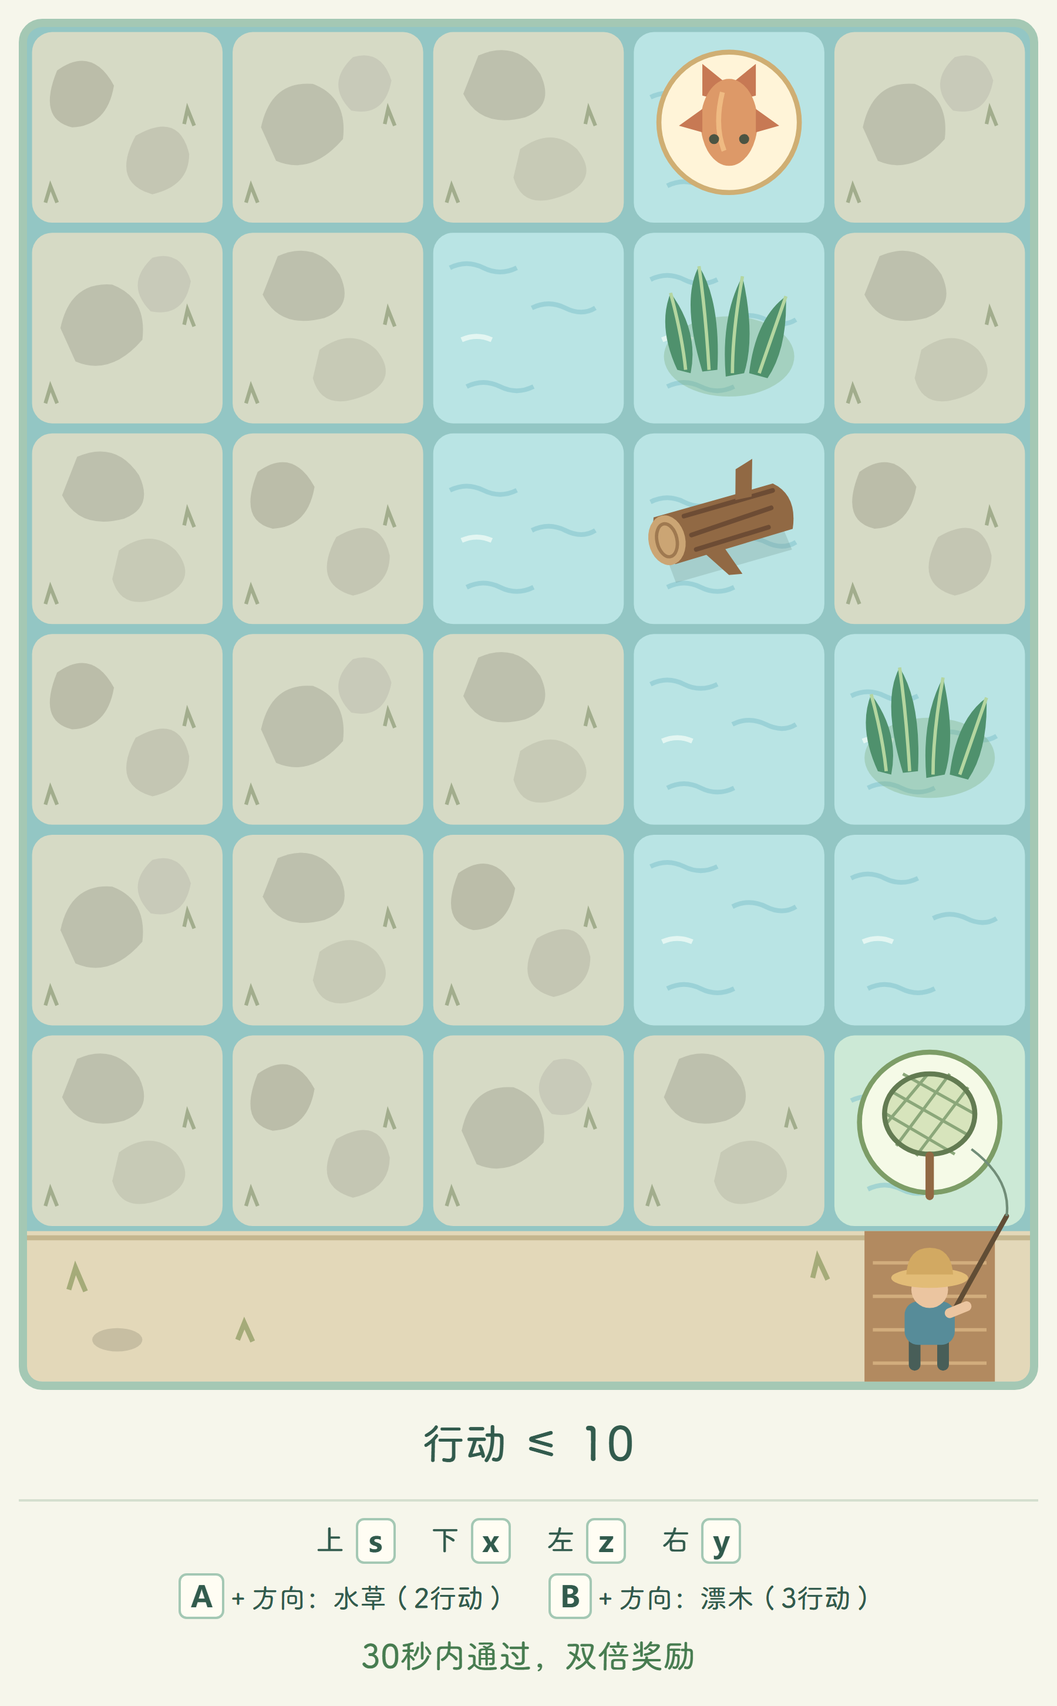
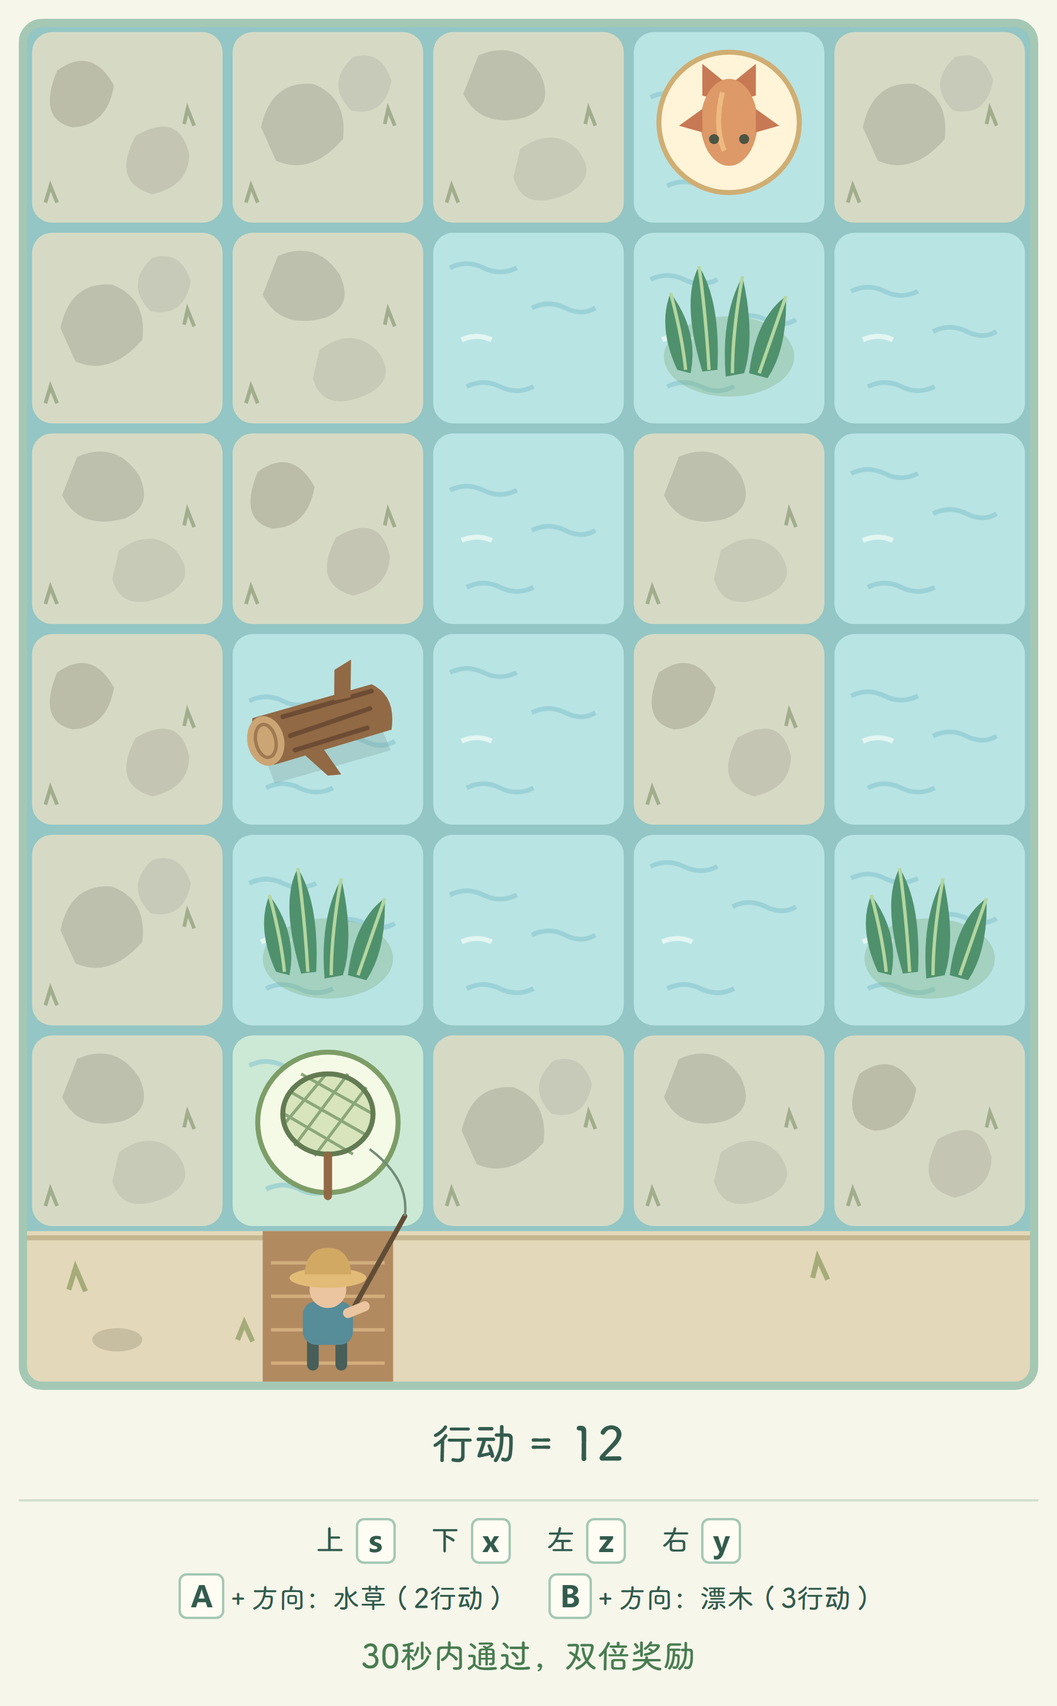
fix: 要求水路遭遇路线恰好用完规定行动数

Changed region(s): [[0.2178, 0.124, 0.9956, 0.8368], [0.8089, 0.4959, 0.9644, 0.8368], [0.4044, 0.8368, 0.5911, 0.8678]]

diff --git a/plugins/sakura-plugin/lib/fishing/encounterGuide.js b/plugins/sakura-plugin/lib/fishing/encounterGuide.js
@@ -4,7 +4,7 @@ import { ENCOUNTER_TIME_LIMIT_MS, ENCOUNTER_FULL_REWARD_MS, validateEncounterInp
 export const FISHING_ENCOUNTER_GUIDE_FILE = "05-waterway-encounter.jpg";
 
 export function buildEncounterGuideHtml({ fontData, backgroundData = "" } = {}) {
-  const example = { id: "guide-example", rows: ["#S###", "#A..#", "###B#", "###.#", "###G#"], limits: { actions: 10 } };
+  const example = { id: "guide-example", rows: ["#S###", "#A..#", "###B#", "###.#", "###G#"], limits: { actions: 9 } };
   if (!validateEncounterInput(example, "AxyyBxxx").success) throw new Error("遭遇攻略示例与规则不一致");
   const sampleSvg = buildEncounterHtml(example).match(/<svg[\s\S]*?<\/svg>/)[0];
   return `<!doctype html><html lang="zh-CN"><head><meta charset="utf-8"><style>
@@ -16,10 +16,10 @@ export function buildEncounterGuideHtml({ fontData, backgroundData = "" } = {}) 
 table{width:100%;border-collapse:collapse;font-size:27px}th,td{padding:16px;text-align:left;border-bottom:1px solid #eadce4}th{color:#806575;font-size:24px}td:last-child{font-weight:bold;color:#3b7054}.keys{display:grid;grid-template-columns:repeat(4,1fr);gap:12px}.key{background:#f7eef2;border-radius:14px;padding:16px;text-align:center;font-size:29px}.key span{color:#b83e70}
 .example{display:grid;grid-template-columns:330px 1fr;gap:32px;align-items:center}.example .map{width:330px;display:block;border:5px solid #a4c8b4;border-radius:14px}.code{font-family:'Microsoft YaHei',sans-serif;font-size:32px;letter-spacing:2px;color:#3b7054}.reward{display:grid;grid-template-columns:repeat(3,1fr);gap:12px}.reward div{padding:16px;background:#f2f8f2;border-radius:16px;text-align:center;font-size:25px}.reward strong{display:block;font-size:35px;color:#3b7054;margin-top:10px}.foot{font-size:22px;line-height:1.5;margin:0;text-align:center;color:#806575}
 </style></head><body><main class="guide">
-<header class="header"><div class="tag">钓鱼攻略 · 水路遭遇</div><h1>看清路线，在上限内收鱼</h1><p class="lead">普通鱼、异色鱼、噩梦与宝藏通过重量判定后，有 10% 概率触发；成功后再判定困难度。好运护符与首领不触发。鱼在上方，收鱼点在下方；每次重新生成小地图与行动上限。</p></header>
+<header class="header"><div class="tag">钓鱼攻略 · 水路遭遇</div><h1>看清路线，恰好用完行动</h1><p class="lead">普通鱼、异色鱼、噩梦与宝藏通过重量判定后，有 10% 概率触发；成功后再判定困难度。好运护符与首领不触发。鱼在上方，收鱼点在下方；每次重新生成小地图与规定行动数。</p></header>
 <section class="panel"><h2>仅匹配纯操作串</h2><div class="keys"><div class="key">左 <span>z</span></div><div class="key">右 <span>y</span></div><div class="key">上 <span>s</span></div><div class="key">下 <span>x</span></div></div><p>一次发送整套操作，只含「上下左右」和「zysxab」，支持混写，字母不区分大小写。请连续输入，不夹杂空格、说明或标点；每个方向移动一格，不能斜走或进入岸壁。</p><p class="accent">其他聊天或空消息不计作答，倒计时照常继续。首次纯操作串就是答案；动作语法、地形或路线错误直接失败，不能重试。</p></section>
-<section class="panel"><h2>A/B 与移动分开计数</h2><table><thead><tr><th>目标地形</th><th>输入</th><th>行动消耗</th></tr></thead><tbody><tr><td>普通水路</td><td>方向，例如 x</td><td>1 次</td></tr><tr><td>水草</td><td>A＋方向，例如 Ax</td><td>A 1＋移动 1＝2 次</td></tr><tr><td>漂木</td><td>B＋方向，例如 Bx</td><td>B 2＋移动 1＝3 次</td></tr></tbody></table><p>B 只输入一个字母，系统按两次技能行动计数。A/B 必须紧接方向并匹配地形，普通水路不能乱加 A/B。</p><p class="accent">到达终点时，总行动数不超过“行动 ≤ N”就成功，剩余行动可以不用。任何格子都不能重复经过，包括起点，到终点后不能还有操作。</p></section>
-<section class="panel"><h2>输入示例：上限 10，实际 9</h2><div class="example">${sampleSvg}<div><p class="code">AxyyBxxx</p><p>分段：Ax / y / y / Bx / x / x</p><p>移动 6 格，使用 A 一次、B 一次。</p><p class="accent">6＋1＋2＝9 ≤ 10，成功！</p><p>剩余 1 次行动无需用完。只要路线与地形操作正确，任意上限内的走法都接受。</p></div></div></section>
+<section class="panel"><h2>A/B 与移动分开计数</h2><table><thead><tr><th>目标地形</th><th>输入</th><th>行动消耗</th></tr></thead><tbody><tr><td>普通水路</td><td>方向，例如 x</td><td>1 次</td></tr><tr><td>水草</td><td>A＋方向，例如 Ax</td><td>A 1＋移动 1＝2 次</td></tr><tr><td>漂木</td><td>B＋方向，例如 Bx</td><td>B 2＋移动 1＝3 次</td></tr></tbody></table><p>B 只输入一个字母，系统按两次技能行动计数。A/B 必须紧接方向并匹配地形，普通水路不能乱加 A/B。</p><p class="accent">到达终点时，总行动数必须恰好等于“行动 = N”，少用或多用都失败。任何格子都不能重复经过，包括起点，到终点后不能还有操作。</p></section>
+<section class="panel"><h2>输入示例：规定 9，实际 9</h2><div class="example">${sampleSvg}<div><p class="code">AxyyBxxx</p><p>分段：Ax / y / y / Bx / x / x</p><p>移动 6 格，使用 A 一次、B 一次。</p><p class="accent">6＋1＋2＝9，恰好用完，成功！</p><p>若地图规定 10 次行动，这条路线只用 9 次，即使到达终点也会失败。所有恰好用完规定行动数的合法路线都接受。</p></div></div></section>
 <section class="panel"><h2>${ENCOUNTER_TIME_LIMIT_MS / 1000} 秒内完成，越快奖励越高</h2><div class="reward"><div>${ENCOUNTER_FULL_REWARD_MS / 1000} 秒内<strong>×2</strong></div><div>45 秒<strong>×1.5</strong></div><div>接近 60 秒<strong>趋近 ×1</strong></div></div><p>计时从图片发送成功开始，到收到首次答案为止。30 秒后倍率线性递减，奖励取整。普通鱼与异色鱼增加金币和钓鱼经验；噩梦与宝藏只增加经验，噩梦效果与宝箱数量照旧。熟练度与图鉴记录按原规则结算。水路遭遇不算完美收竿，不叠加完美收竿经验奖励。</p><p class="accent">首次答错或到 60 秒整，鱼逃走，本次按钓鱼失败结算。遭遇不会额外扣鱼饵或体力，先前已经产生的装备损伤保留。</p></section>
 <p class="foot" style="background:rgba(255,255,255,.94);padding:16px;border-radius:14px">只有满足地形、路线、行动数与时限要求才算成功 · 鱼雷事件不触发</p>
 </main></body></html>`;

diff --git a/plugins/sakura-plugin/lib/fishing/encounter.js b/plugins/sakura-plugin/lib/fishing/encounter.js
@@ -1,7 +1,7 @@
 // 遭遇规则与关卡工具。重量判定通过后、困难度判定前抽取；护符与首领不触发。
 export const ENCOUNTER_TIME_LIMIT_MS = 60_000;
 export const ENCOUNTER_FULL_REWARD_MS = 30_000;
-export const ENCOUNTER_RULE_VERSION = 4;
+export const ENCOUNTER_RULE_VERSION = 5;
 export const ENCOUNTER_DEFAULT_CHANCE = 0.1;
 export const ENCOUNTER_ABILITY_COSTS = Object.freeze({ A: 1, B: 2 });
 
@@ -44,7 +44,7 @@ export function assertEncounterMap(map) {
     throw new TypeError("鱼必须位于地图上方，唯一收鱼点必须位于地图下方");
   }
   const { actions } = map.limits || {};
-  if (!Number.isInteger(actions) || actions < 1 || actions > 96) throw new TypeError("行动上限必须在 1 至 96 之间");
+  if (!Number.isInteger(actions) || actions < 1 || actions > 96) throw new TypeError("规定行动数必须在 1 至 96 之间");
   return { width, height: rows.length, start: starts[0], goal: goals[0] };
 }
 
@@ -85,12 +85,12 @@ export function validateEncounterInput(map, input) {
     usedA += ability === "A" ? 1 : 0;
     usedB += ability === "B" ? 1 : 0;
     actions += 1 + (ENCOUNTER_ABILITY_COSTS[ability] || 0);
-    if (actions > map.limits.actions) return { success: false, reason: "超过行动上限", step: index + 1, actions, moves: index + 1, usedA, usedB };
+    if (actions > map.limits.actions) return { success: false, reason: "超过规定行动数", step: index + 1, actions, moves: index + 1, usedA, usedB };
     if (tile === "G" && index !== tokens.length - 1) return { success: false, reason: "到达收鱼点后仍有操作", step: index + 1 };
   }
   const reachedGoal = map.rows[y][x] === "G";
-  const success = reachedGoal && actions <= map.limits.actions;
-  const reason = reachedGoal ? "正确" : "未到收鱼点";
+  const success = reachedGoal && actions === map.limits.actions;
+  const reason = success ? "正确" : reachedGoal ? "未用完规定行动数" : "未到收鱼点";
   return { success, reason, actions, moves: tokens.length, usedA, usedB };
 }
 
@@ -131,7 +131,7 @@ function routeDifference(left, right) {
 }
 
 function summarizeChoices(routes, limits, truncated = false) {
-  const validRoutes = routes.filter(route => route.actions <= limits.actions);
+  const validRoutes = routes.filter(route => route.actions === limits.actions);
   const underRoutes = routes.filter(route => route.actions < limits.actions);
   const atLimitRoutes = routes.filter(route => route.actions === limits.actions);
   const overRoutes = routes.filter(route => route.actions > limits.actions);
@@ -261,14 +261,14 @@ export function generateEncounterMaps({ count = 5, seed = "sakura", excluded = [
     map.rows = cells.map(row => row.join(""));
     const analysis = analyzeEncounterChoices(map);
     if (analysis.truncated || analysis.routes.length < 3 || !analysis.tradeoffPairs.length) continue;
-    // 上限允许省下行动；保留少量可成功路线和至少一条超限路线。
+    // 行动数必须恰好相等；保留少量可成功路线和至少一条行动超出的路线。
     const candidates = new Map();
     for (let actions = 9; actions <= 13; actions++) {
       if ((count <= 5 && limitsSeen.has(actions)) ||
           actions === (maps.at(-1) || excluded.at(-1))?.limits.actions) continue;
       const limits = { actions };
       const choices = summarizeChoices(analysis.routes, limits);
-      if (!choices.hasMeaningfulChoice || !choices.underRoutes.length || choices.validRoutes.length > 2 ||
+      if (!choices.hasMeaningfulChoice || choices.validRoutes.length > 2 ||
           choices.validRoutes.some(route => route.moves < 6 || route.moves > 9 || route.a + route.b < 2 || route.a + route.b > 3)) continue;
       candidates.set(actions, limits);
     }

diff --git a/plugins/sakura-plugin/lib/fishing/encounterRenderer.js b/plugins/sakura-plugin/lib/fishing/encounterRenderer.js
@@ -56,7 +56,7 @@ ${embeddedFont}
 .directions,.abilities{display:flex;justify-content:center;align-items:center;gap:30px;white-space:nowrap}.directions{margin-bottom:8px}.directions span{display:flex;align-items:center;gap:9px}
 kbd{display:inline-block;min-width:34px;padding:0 8px;border:2px solid #a4c8b4;border-radius:7px;background:#fffdf3;font:700 25px/1.4 'Microsoft YaHei',sans-serif}.abilities{gap:32px;font-size:23px}.reward{margin-top:12px;color:#477c50;font-size:28px;font-weight:700}
 </style></head><body><main class="card"><svg class="map" viewBox="0 0 ${width * 120} ${height * 120 + 90}" role="img" aria-label="钓鱼水路">${cells}${shore(width, height, goal[0])}</svg>
-<div class="limits"><div class="limit">行动 ≤ <span class="count">${map.limits.actions}</span></div></div>
+<div class="limits"><div class="limit">行动 = <span class="count">${map.limits.actions}</span></div></div>
 <div class="controls"><div class="directions"><span>上 <kbd>s</kbd></span><span>下 <kbd>x</kbd></span><span>左 <kbd>z</kbd></span><span>右 <kbd>y</kbd></span></div>
 <div class="abilities"><span><kbd>A</kbd>＋方向：水草（2行动）</span><span><kbd>B</kbd>＋方向：漂木（3行动）</span></div>
 <div class="reward">${ENCOUNTER_FULL_REWARD_MS / 1000}秒内通过，双倍奖励</div></div></main></body></html>`;

diff --git a/plugins/sakura-plugin/apps/fishing.js b/plugins/sakura-plugin/apps/fishing.js
@@ -1664,7 +1664,7 @@ export default class Fishing extends plugin {
     try {
       const { map, image } = await createFishingEncounterImage();
       if (fishingSessions.get(stateKey) !== state || state.settled) return false;
-      await e.reply("🌊 水路遭遇！鱼钻进了复杂的水道，请按接下来的地图把它引到终点。\n⏱ 图片发出后有 60 秒，在行动上限内发送完整操作串，只有一次作答机会。");
+      await e.reply("🌊 水路遭遇！鱼钻进了复杂的水道，请按接下来的地图把它引到终点。\n⏱ 图片发出后有 60 秒，必须恰好用完规定行动数，发送完整操作串，只有一次作答机会。");
       if (fishingSessions.get(stateKey) !== state || state.settled) return false;
       state.encounter = { map, attempt: null, inputReceived: false, pendingInput: null };
       state.phase = FISHING_PHASE.encounter;

diff --git a/plugins/sakura-plugin/lib/fishing/encounterImages.js b/plugins/sakura-plugin/lib/fishing/encounterImages.js
@@ -56,7 +56,7 @@ export async function renderFishingHtml(html, { selector = ".card", width = 900,
 export async function createFishingEncounterImage({ seed = randomUUID() } = {}) {
   const map = generateEncounterMaps({ count: 1, seed, excluded: recentMaps })[0];
   const choices = analyzeEncounterChoices(map);
-  if (!choices.hasMeaningfulChoice || choices.routes.some(route => validateEncounterInput(map, route.sequence).success !== (route.actions <= map.limits.actions))) throw new Error("遭遇地图校验失败");
+  if (!choices.hasMeaningfulChoice || choices.routes.some(route => validateEncounterInput(map, route.sequence).success !== (route.actions === map.limits.actions))) throw new Error("遭遇地图校验失败");
   // 先保存布局以避免同时触发的玩家获得同图；只缓存近期布局，不复用图片。
   recentMaps.push(map);
   if (recentMaps.length > 32) recentMaps.shift();

diff --git a/plugins/sakura-plugin/resources/fish/encounters/README.md b/plugins/sakura-plugin/resources/fish/encounters/README.md
@@ -1,6 +1,6 @@
 # 钓鱼遭遇本地资源
 
-本目录由离线脚本生成 5 张关卡 PNG 和 `levels.json`。图片包含 5×6 地图、`行动 ≤ N`、方向与 A/B 按键，以及“30秒内通过，双倍奖励”提示；到达终点时消耗不超过上限就算成功。鱼在上方，收鱼点与玩家岸边在下方。所有图片为程序渲染，不调用 AI 绘图或外部服务。
+本目录由离线脚本生成 5 张关卡 PNG 和 `levels.json`。图片包含 5×6 地图、`行动 = N`、方向与 A/B 按键，以及“30秒内通过，双倍奖励”提示；到达终点时必须恰好用完规定行动数，少用或多用都失败。鱼在上方，收鱼点与玩家岸边在下方。所有图片为程序渲染，不调用 AI 绘图或外部服务。
 
 已接入机器人：普通鱼、异色鱼、噩梦与宝藏通过重量判定后、困难度判定前，以默认 10% 概率触发。好运护符与首领不触发，鱼雷事件不触发。遭遇成功后继续原来的困难度判定，最终捕获成功才发奖。
 
@@ -15,7 +15,7 @@
 在仓库根目录运行：
 
 ```powershell
-node plugins/sakura-plugin/scripts/generate-fishing-encounters.mjs --seed sakura-fishing-small-20261007 --count 5
+node plugins/sakura-plugin/scripts/generate-fishing-encounters.mjs --seed sakura-fishing-exact-20261009 --count 5
 ```
 
 相同种子可重现相同地图。改种子可重新生成布局和限制；默认会改写本目录现有编号资源。要保留现有资源，可用 `--out` 指定另一输出目录。
@@ -46,16 +46,16 @@ node --test plugins/sakura-plugin/scripts/test-fishing-encounters.mjs
 - 删除不能出现在任何完整路线中的死路分支，减少辨图负担。往返和绕圈不计入额外路线。
 - 每条路线的行动数为移动次数加 A 使用次数，再加 B 使用次数的两倍。A/B 没有各自的次数配额。
 - 至少有一组“短路障碍多、长路障碍少”的路线，且这两条路线至少有 2 个不同格子。
-- 行动上限在 9～13 次中选择。每张图有 1～2 条上限内的路线，至少一条低于上限，也至少有一条超限路线。上限内与超限路线至少有 2 个不同格子。
+- 规定行动数在 9～13 次中选择。每张图有 1～2 条恰好用完行动的路线，至少有一条行动超出的路线；也可能存在行动不足的路线。可成功路线与行动超出的路线至少有 2 个不同格子。
 - 所有可成功路线移动 6～9 格，经过 2～3 个水草或漂木。无解、单通道、所有路线都能成功、搜索超出预算的候选都不会保存。
 - 按水路连接去重，左右镜像、仅修改障碍或仅修改限制都视为相同布局。
-- 1～5 张的小批次行动上限各不相同；更大批次和运行时逐场生成避免连续重复行动上限。
+- 1～5 张的小批次规定行动数各不相同；更大批次和运行时逐场生成避免连续重复规定行动数。
 - 每张图有唯一上方鱼位和唯一下方收鱼点；当前随机生成器输出 5 列 6 行。
-- 数据使用 `#` 岸壁、`.` 水路、`S` 鱼位、`G` 收鱼点、`A` 水草、`B` 漂木。清单版本为 4，限制结构为 `limits: { actions: N }`，字段表示上限，不保存答案。旧版关卡清单需要重新生成。
+- 数据使用 `#` 岸壁、`.` 水路、`S` 鱼位、`G` 收鱼点、`A` 水草、`B` 漂木。清单版本为 5，限制结构为 `limits: { actions: N }`，字段表示必须恰好达到的行动数，不保存答案。旧版关卡清单需要重新生成。
 
-`analyzeEncounterChoices()` 统计不重复经过格子的完整路线，返回每条路线的行动数、上限内/低于上限/等于上限/超限的数量与成本取舍。它有搜索预算；超出预算时生成器拒绝候选，不能把不完整枚举当成完整验证。
+`analyzeEncounterChoices()` 统计不重复经过格子的完整路线，返回每条路线的行动数、行动不足/恰好相等/行动超出的数量与成本取舍，仅将恰好相等的路线计入可成功路线。它有搜索预算；超出预算时生成器拒绝候选，不能把不完整枚举当成完整验证。
 
-`solveEncounter()` 返回全部不超过行动上限的路线，搜索超出预算时抛出错误。判题会独立模拟玩家的整条路线，接受任意满足条件的路径，不和唯一答案字符串比较。剩余行动不必用完，也不要求选择全图最省的路线。
+`solveEncounter()` 返回全部恰好用完规定行动数的路线，搜索超出预算时抛出错误。判题会独立模拟玩家的整条路线，接受任意满足条件的路径，不和唯一答案字符串比较。每张生成地图保证存在等式解，不要求选择全图最省的路线。
 
 ## 钓鱼攻略的玩法文案
 
@@ -67,9 +67,9 @@ node --test plugins/sakura-plugin/scripts/test-fishing-encounters.mjs
 
 进入水草须使用 `A＋方向`，进入漂木须使用 `B＋方向`。例如 `az` 表示向左进入水草，`Bx` 表示向下进入漂木。动作只作用于紧接的这一步；普通水路只写方向，不能使用多余 A/B 凑数。
 
-每个方向消耗 1 次行动，A 消耗 1 次，B 消耗 2 次。普通水路一格消耗 1 次，进入水草一格消耗 2 次，进入漂木一格消耗 3 次。B 仍只输入一个字母。起点不计行动，进入收鱼点的移动计 1 次行动。A/B 没有单独配额；总行动数不超过图片下方的上限就成功，少用几次也可以。到达收鱼点后不能还有操作。
+每个方向消耗 1 次行动，A 消耗 1 次，B 消耗 2 次。普通水路一格消耗 1 次，进入水草一格消耗 2 次，进入漂木一格消耗 3 次。B 仍只输入一个字母。起点不计行动，进入收鱼点的移动计 1 次行动。A/B 没有单独配额；总行动数必须恰好等于图片下方的规定数，少用或多用都失败。到达收鱼点后不能还有操作。
 
-例如 `xAxyBx` 分为 `x / Ax / y / Bx`，移动 4 格，使用 A/B 各一次，总计 7 次行动；地形逐步匹配、到达终点且本局上限为 7 或更大时，就能成功。
+例如 `xAxyBx` 分为 `x / Ax / y / Bx`，移动 4 格，使用 A/B 各一次，总计 7 次行动；地形逐步匹配、到达终点且本局规定行动数恰好为 7 时，就能成功。规定 8 次时，即使到达终点也会因行动不足而失败。
 
 只允许提交一次答案，首次纯操作串的动作语法或路线错误也会消耗这次机会。聊天、空消息或混入其他字符的消息会忽略。图片发送成功后开始计时；30 秒内成功倍率为 2，30 秒后线性递减，45 秒成功为 1.5，接近 60 秒时趋近 1。60 秒整及之后视为失败，鱼逃走。噩梦和宝藏只增加经验；普通鱼和异色鱼增加金币与经验，奖励四舍五入。噩梦效果、宝箱数量、熟练度、图鉴记录保持原规则。
 

diff --git a/plugins/sakura-plugin/resources/fish/guide/README.md b/plugins/sakura-plugin/resources/fish/guide/README.md
@@ -14,7 +14,7 @@
 - 严格地点限定与天气限定渔获，不展示天气概率或倍率；
 - 钓点解锁条件：上一钓点专属图鉴成功收录 15 种，包含跨钓点鱼、不包含全钓点通用鱼；樱花池塘初始开放；
 - 图鉴与钓鱼等级奖励；
-- 水路遭遇的触发阶段、护符和首领例外、输入、地形行动成本、行动上限、时限与奖励规则。
+- 水路遭遇的触发阶段、护符和首领例外、输入、地形行动成本、必须恰好用完规定行动数、时限与奖励规则。
 
 重新生成：
 
